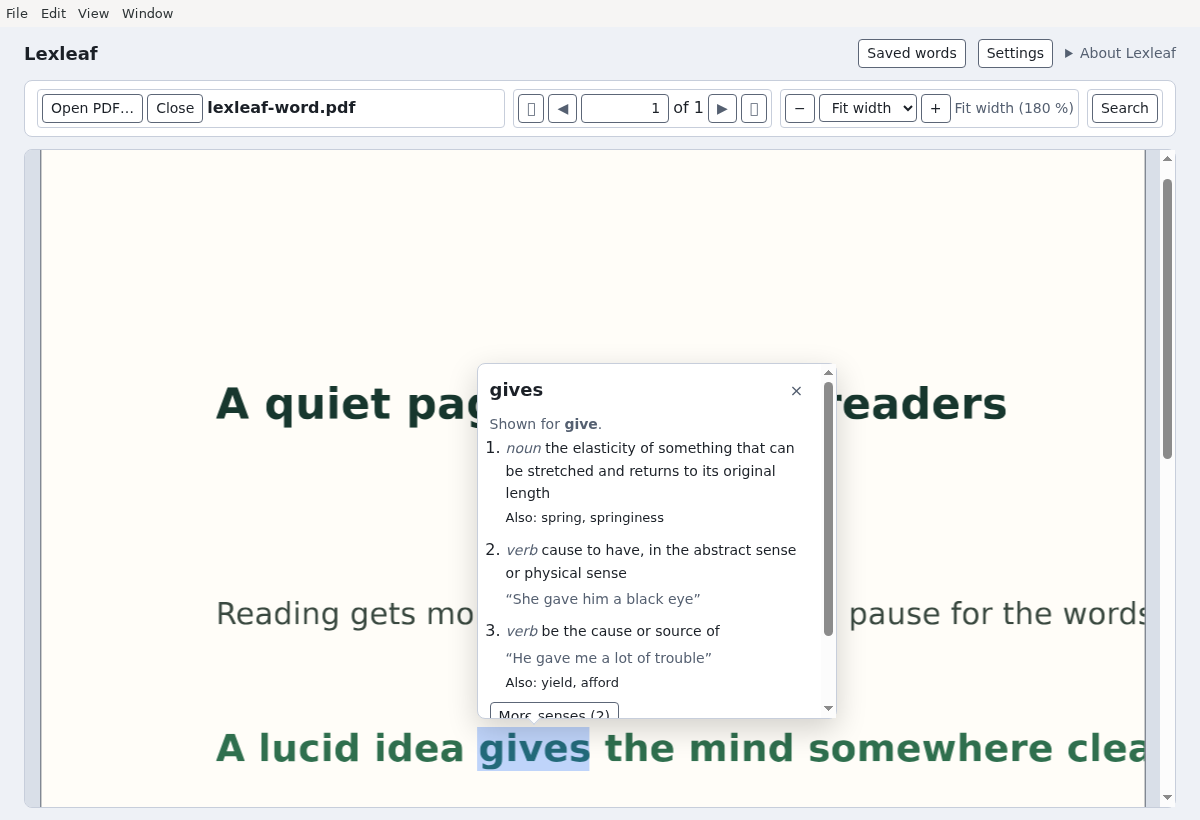
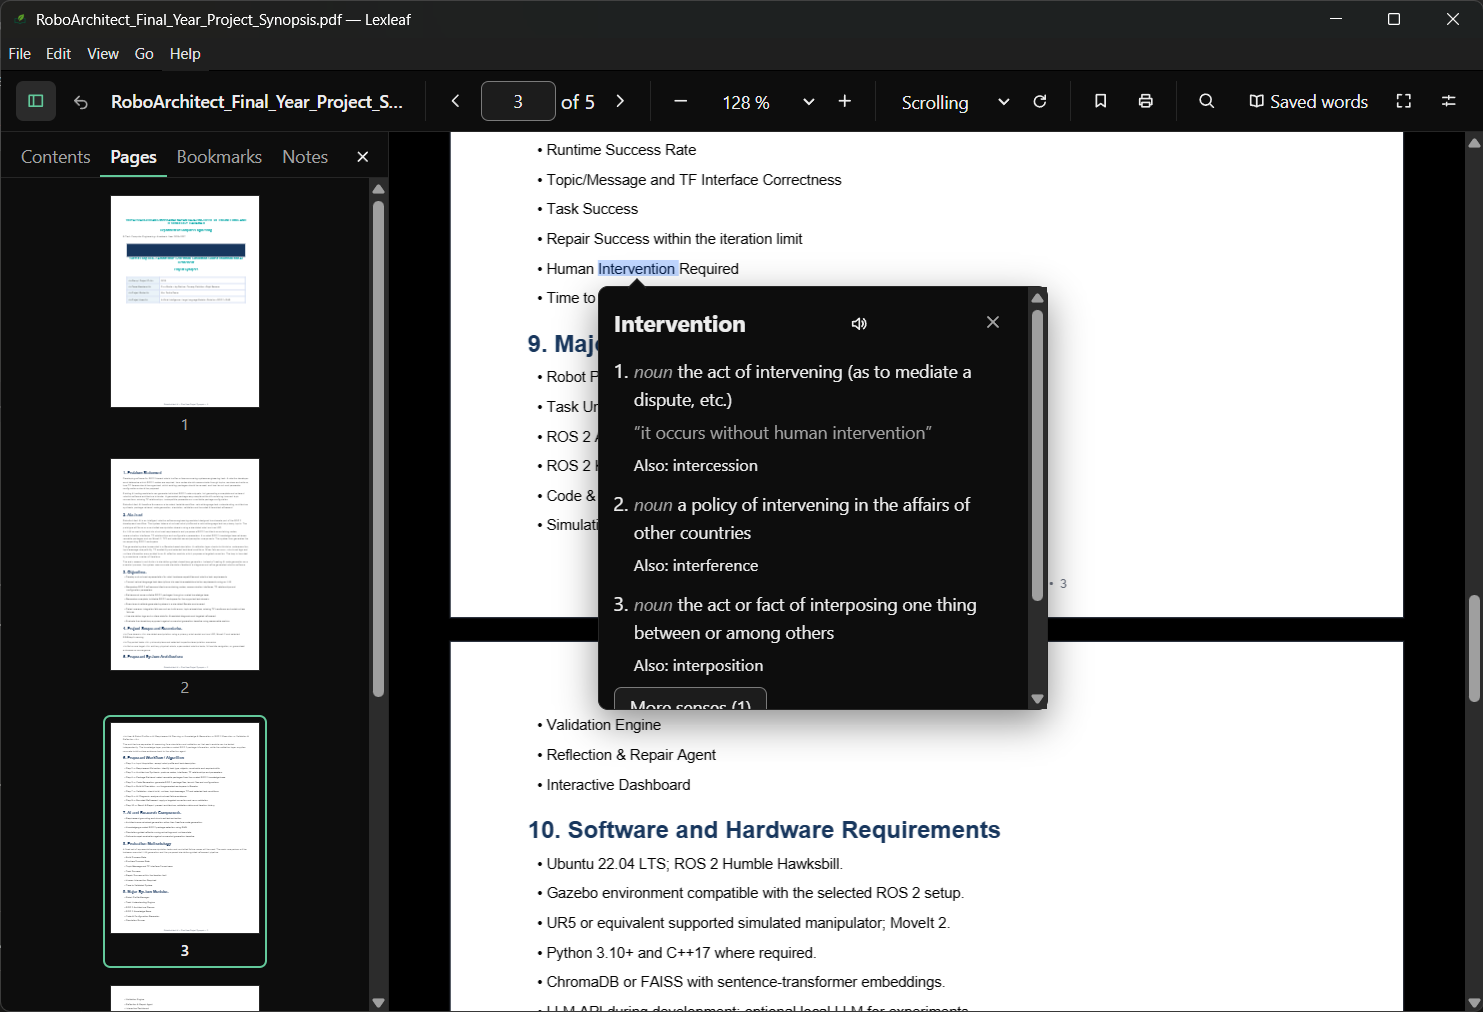
Website: newer screenshots of the dark reader
The three new captures (word lookup, reading with the pages sidebar, and the
settings panel) replace the old light-theme lookup and saved-words pictures.
The social card is rebuilt from the new hero shot.

diff --git a/website/index.html b/website/index.html
@@ -72,9 +72,9 @@
         <figure class="shot hero-shot">
           <img
             src="assets/lookup.png"
-            alt="Lexleaf reading a PDF with the word “gives” highlighted and its dictionary entry in a popup"
-            width="1200"
-            height="820"
+            alt="Lexleaf reading a PDF with the word “Intervention” highlighted and its dictionary entry in a popup"
+            width="1483"
+            height="1012"
           />
         </figure>
       </section>
@@ -159,15 +159,28 @@
               </li>
             </ol>
           </div>
-          <figure class="shot">
-            <img
-              src="assets/library.png"
-              alt="Lexleaf’s saved words screen, with search, document filter and sort order"
-              width="1200"
-              height="820"
-            />
-            <figcaption>Your own vocabulary, built while you read.</figcaption>
-          </figure>
+          <div class="shot-stack">
+            <figure class="shot">
+              <img
+                src="assets/reading.png"
+                alt="Lexleaf reading a PDF, with the pages sidebar showing thumbnails and the current page marked"
+                width="1483"
+                height="1012"
+              />
+              <figcaption>
+                Contents, page thumbnails, bookmarks and notes beside the page.
+              </figcaption>
+            </figure>
+            <figure class="shot">
+              <img
+                src="assets/settings.png"
+                alt="Lexleaf’s settings panel open beside the page, with zoom and page colour choices"
+                width="1483"
+                height="1012"
+              />
+              <figcaption>Fit page, your last zoom, and a page colour you can read by.</figcaption>
+            </figure>
+          </div>
         </div>
       </section>
 

diff --git a/website/style.css b/website/style.css
@@ -573,11 +573,16 @@ code {
   font: 0.92em var(--mono);
 }
 
-/* Keep the library screenshot's empty lower half out of the layout. */
-.split .shot img {
-  aspect-ratio: 1200 / 620;
-  object-fit: cover;
-  object-position: top center;
+/* Two screenshots stacked beside the steps, a little smaller than the page
+   width so they do not tower over the text. */
+.shot-stack {
+  display: flex;
+  flex-direction: column;
+  gap: 22px;
+}
+
+.shot-stack figcaption {
+  margin-top: 10px;
 }
 
 @media (max-width: 900px) {

diff --git a/website/README.md b/website/README.md
@@ -24,8 +24,10 @@ dependencies, no framework. `index.html` opens in a browser as it is.
   release page.
 - The macOS buttons point at the `mac-test-0.2.8` pre-release, because the Mac build is a
   test build. Update them when a signed Mac release exists.
-- Screenshots are in `assets/`. Replacing one keeps the same file name, so nothing else
-  needs changing.
+- Screenshots are in `assets/`: `lookup.png` (the hero), `reading.png` and `settings.png`
+  (beside the steps). All three are 1483 × 1012 captures of the whole window, flattened on
+  black. Replacing one keeps the same file name, so nothing else needs changing; update
+  the `width` and `height` attributes if the size changes.
 
 ## Deploying
 
